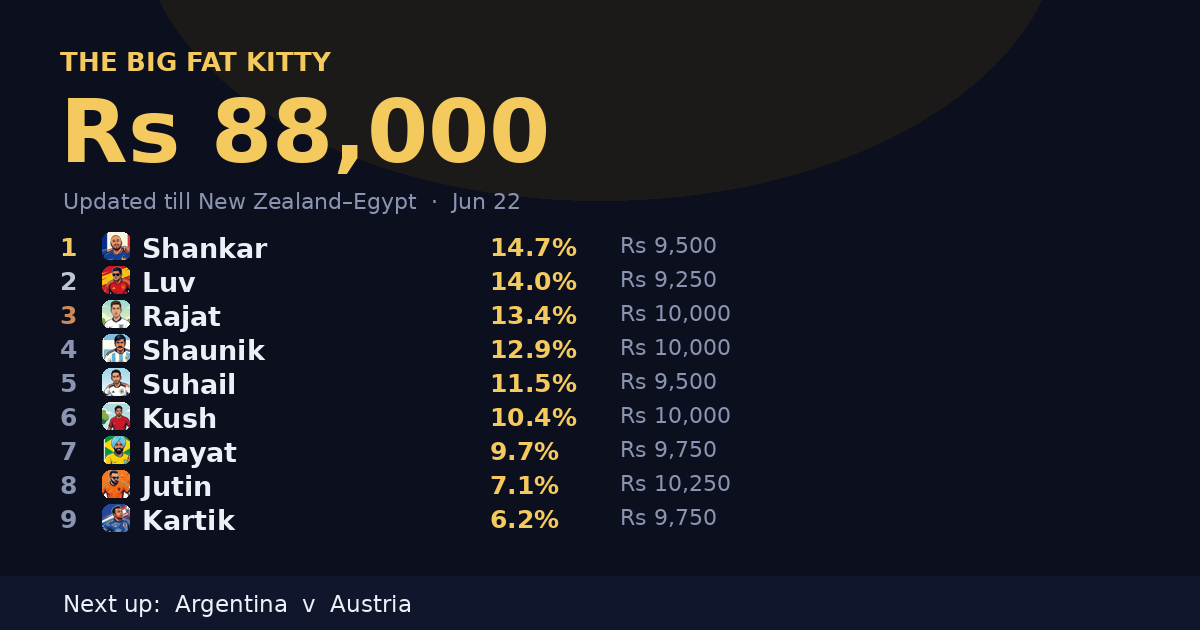
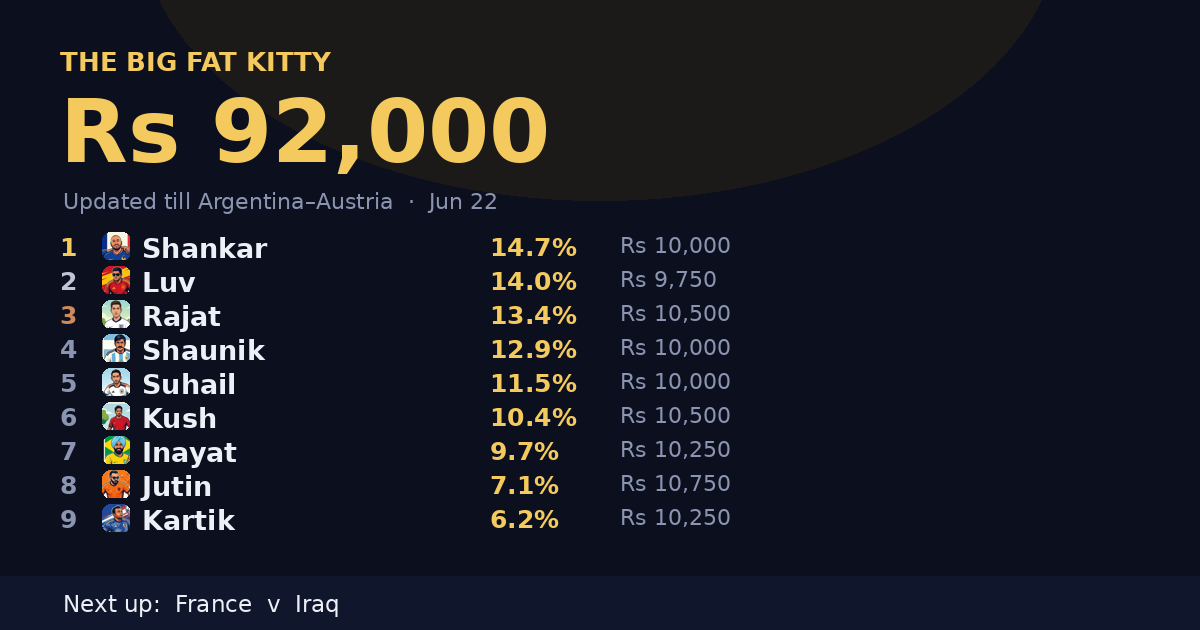
Auto-update: 2026-06-22 21:28 UTC

diff --git a/index.html b/index.html
@@ -14,8 +14,8 @@
 <title>World Cup 2026 — The Big Fat Kitty 🐱</title>
 <!-- WhatsApp / link preview. og.py rewrites the title, description and image daily. -->
 <meta property="og:type" content="website">
-<meta property="og:title" content="The Big Fat Kitty 🐱 — ₹88,000 in the pot">
-<meta property="og:description" content="Leader: Shankar (14.7%)  ·  Lightest: Luv  ·  Next: Argentina v Austria">
+<meta property="og:title" content="The Big Fat Kitty 🐱 — ₹92,000 in the pot">
+<meta property="og:description" content="Leader: Shankar (14.7%)  ·  Lightest: Luv  ·  Next: France v Iraq">
 <meta property="og:image" content="https://therajatsachdeva.github.io/big-fat-kitty/og.png?v=jun22">
 <meta property="og:url" content="https://therajatsachdeva.github.io/big-fat-kitty/">
 <meta name="twitter:card" content="summary_large_image">
